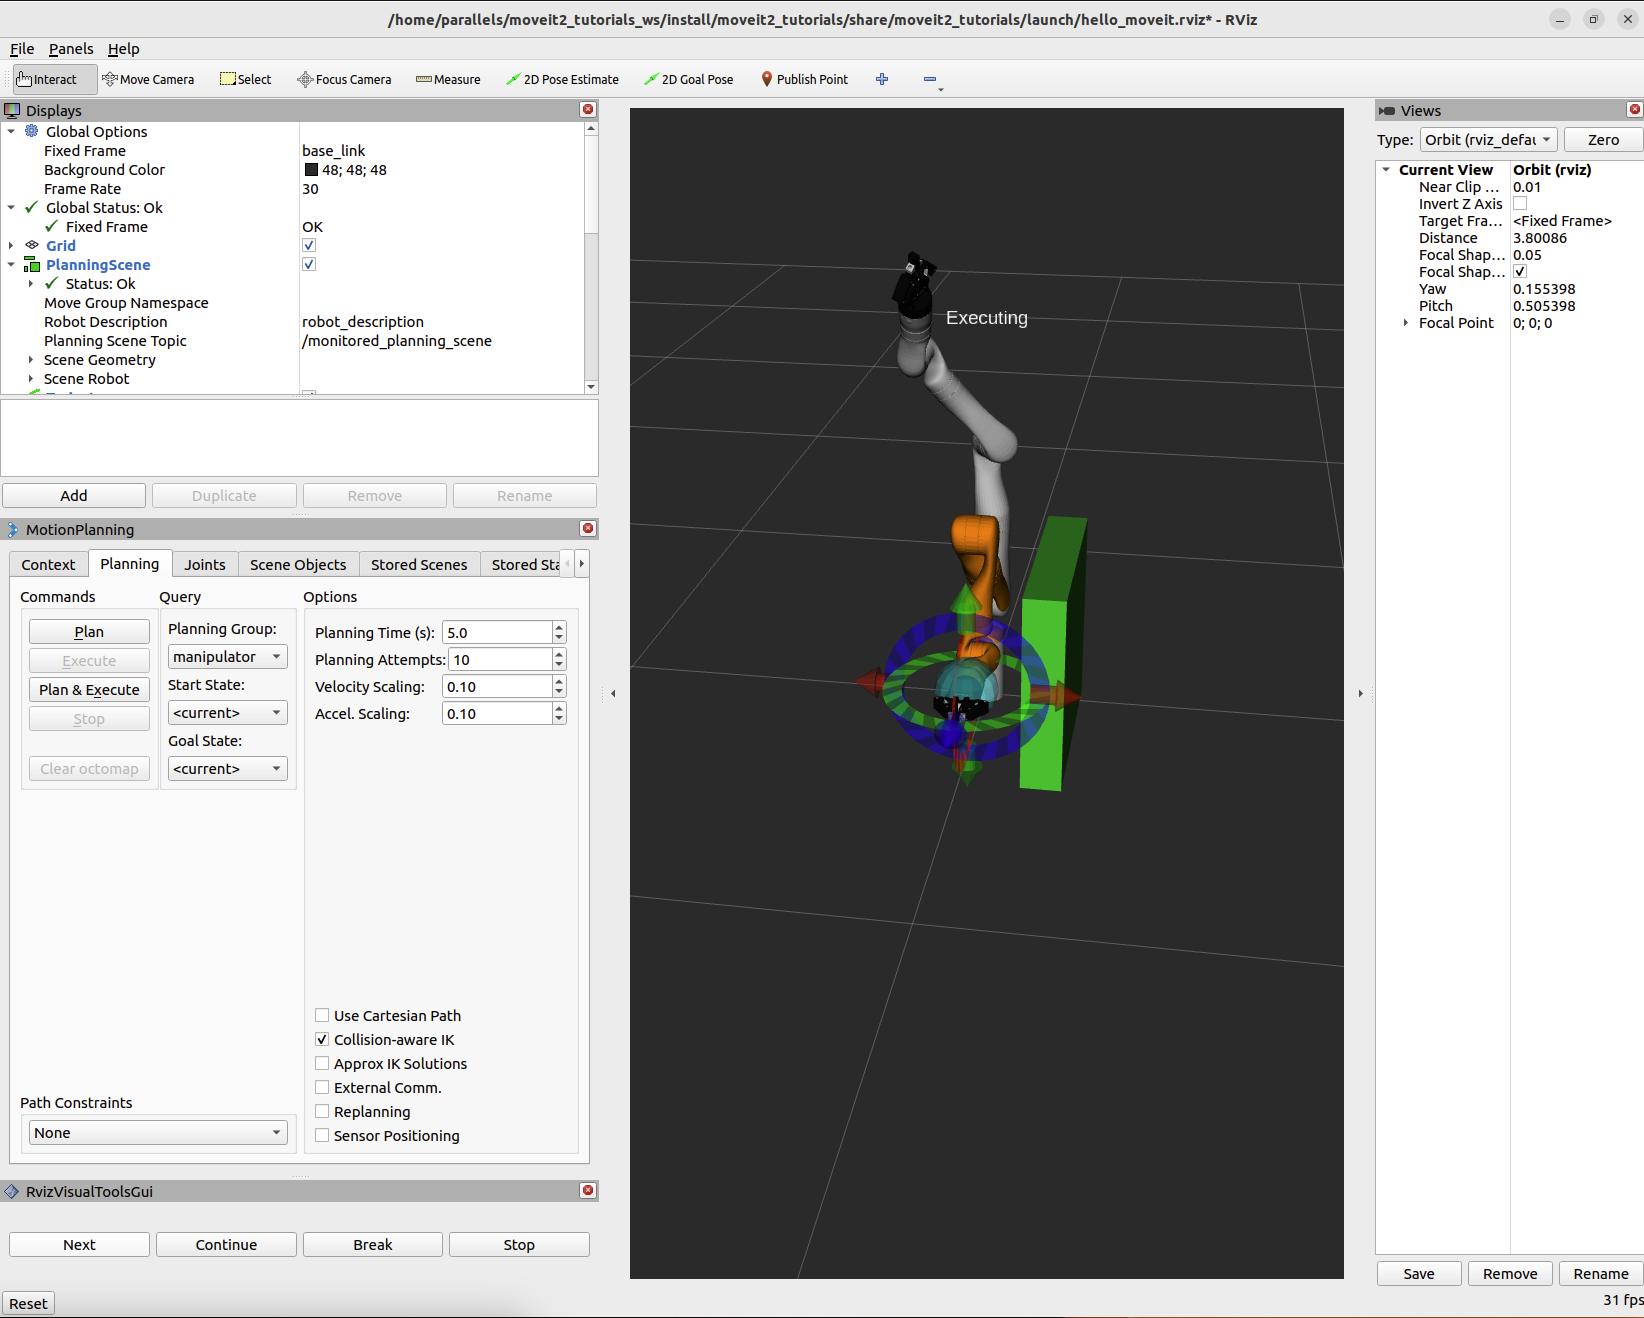
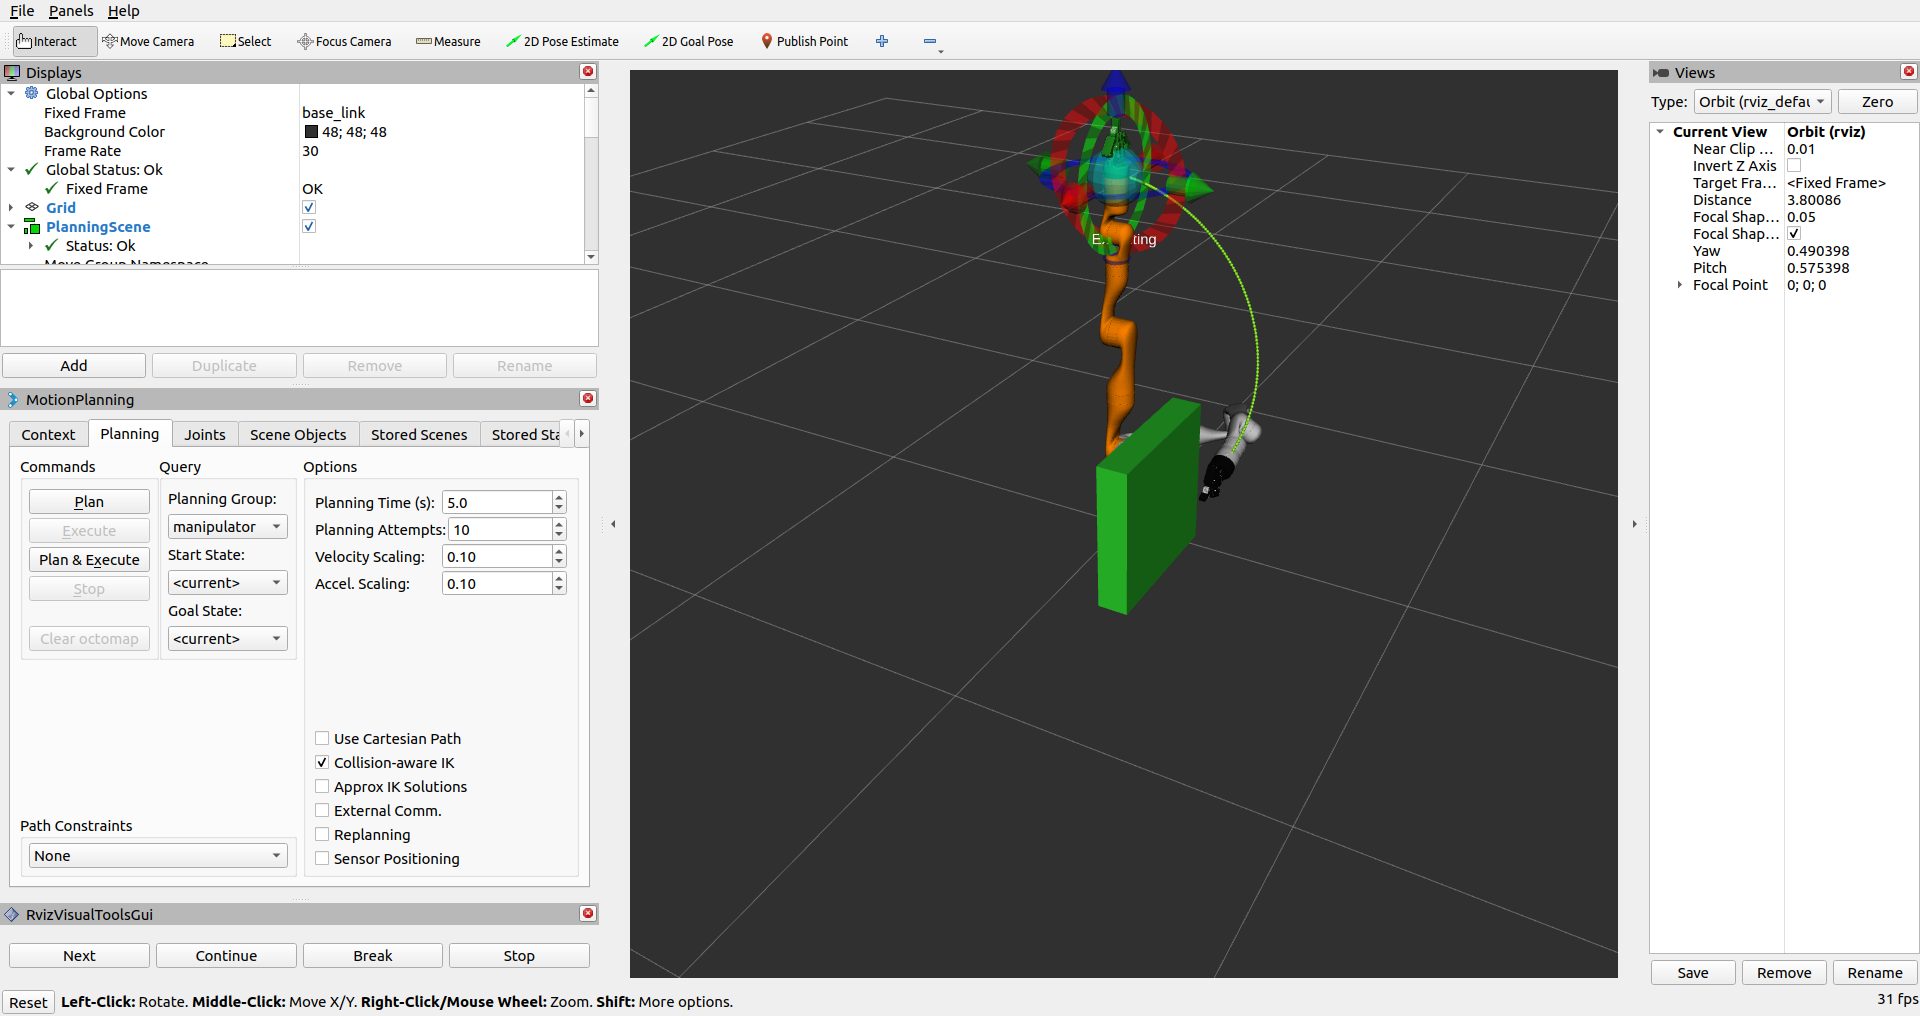
Changed target_pose for "Planning Around Objects" tutorial (#763)

diff --git a/doc/tutorials/planning_around_objects/planning_around_objects.rst b/doc/tutorials/planning_around_objects/planning_around_objects.rst
@@ -28,13 +28,14 @@ First, update the target pose with the following change to make the robot plan t
 
 .. code-block:: C++
 
-    // Set a target Pose
+    // Set a target Pose with updated values !!!
     auto const target_pose = [] {
       geometry_msgs::msg::Pose msg;
-      msg.orientation.w = 1.0;
-      msg.position.x = 0.28;
-      msg.position.y = 0.4;  // <---- This value was changed
-      msg.position.z = 0.5;
+      msg.orientation.y = 0.8;
+      msg.orientation.w = 0.6;
+      msg.position.x = 0.1;
+      msg.position.y = 0.4;
+      msg.position.z = 0.4;
       return msg;
     }();
     move_group_interface.setPoseTarget(target_pose);
